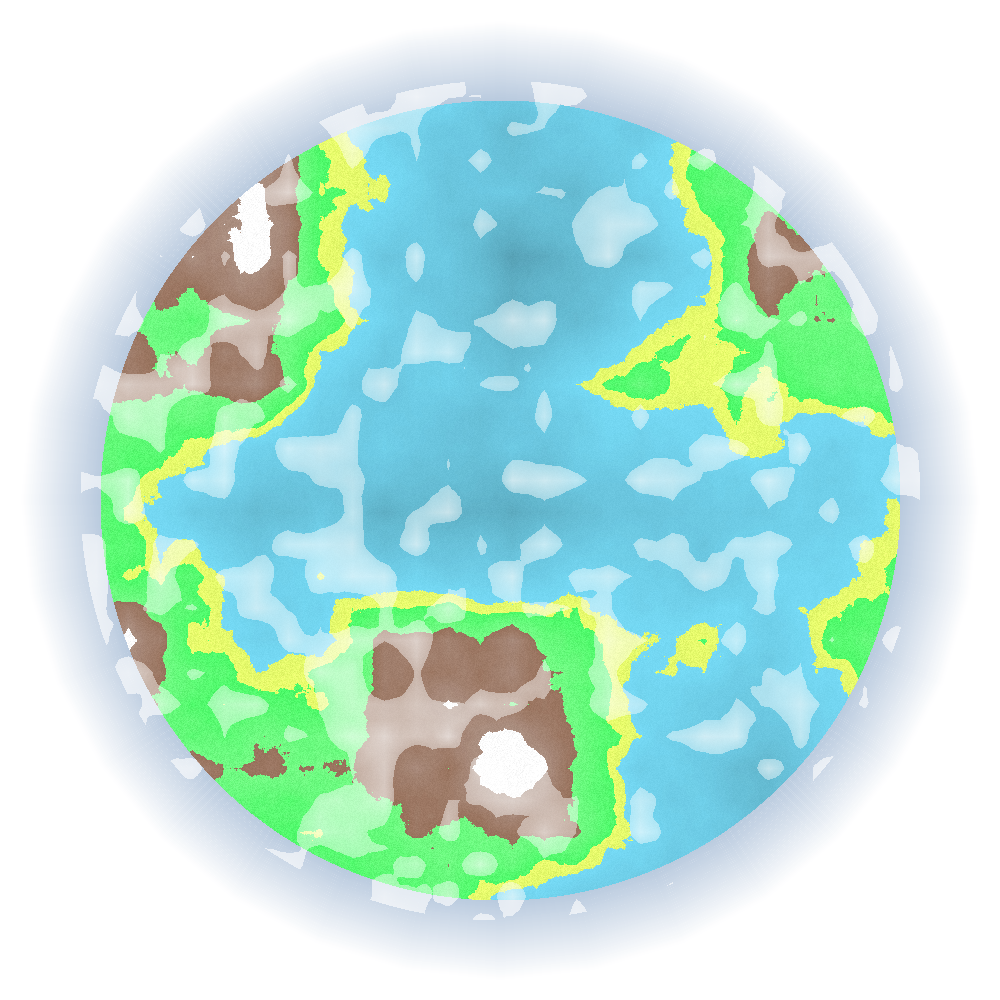
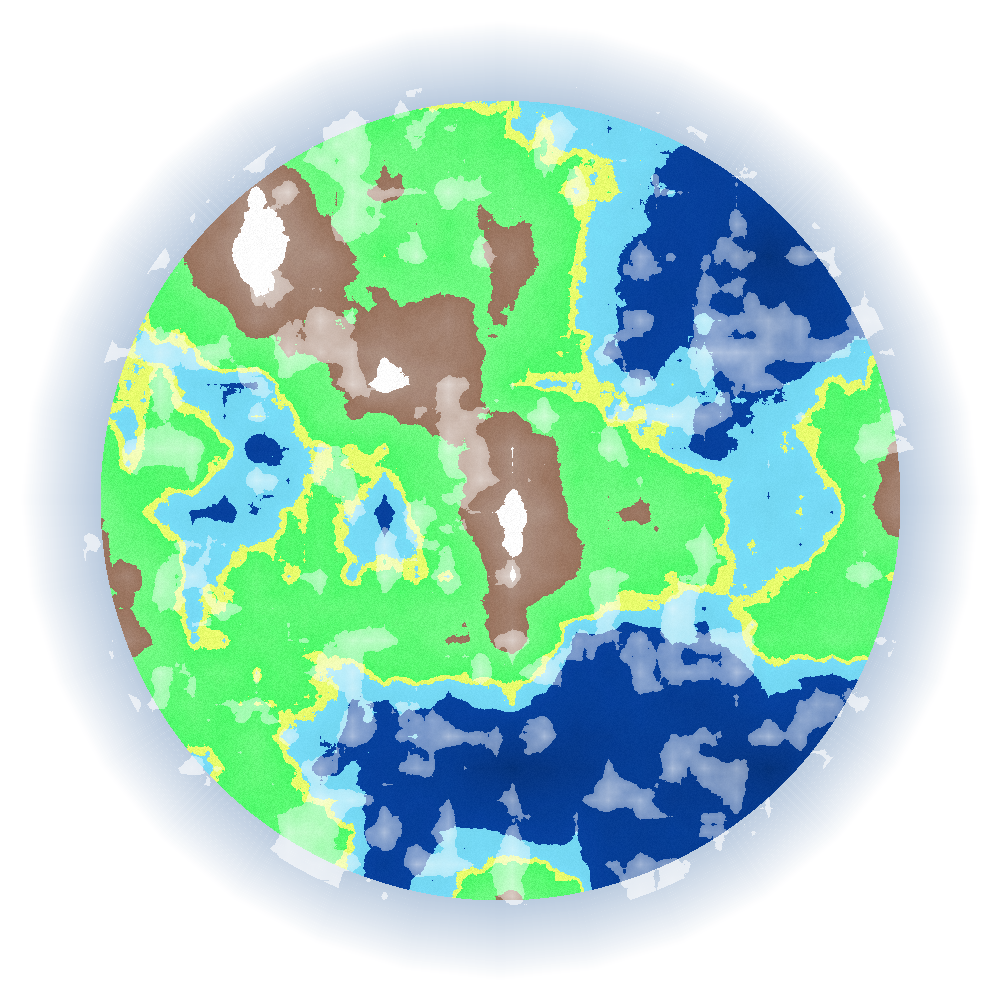
Deep Oceans

diff --git a/Planet.js b/Planet.js
@@ -123,7 +123,7 @@ function generatePlanet(imageSize, planetOptions, colors, hasClouds = false, has
         }
     }
 
-    if(cloudGeneratorOptions) {
+    if(cloudGeneratorOptions == null) {
         cloudGeneratorOptions = {
             octaveCount: 6,
             amplitude: 8,
@@ -188,9 +188,12 @@ function generatePlanet(imageSize, planetOptions, colors, hasClouds = false, has
 
 
             //GROUND AND SEE LEVEL
-            if(value < planetOptions.beach_level && value > planetOptions.sea_level) {
+            if(value < planetOptions.beach_level && value > planetOptions.shore_level) {
                 color = colors.beach_color;
                 amp = 6;
+            } else if(value <= planetOptions.shore_level && value > planetOptions.sea_level) {
+                color = colors.shore_color;
+                amp = 2;
             } else if(value <= planetOptions.sea_level) {
                 color = colors.ocean_color;
                 amp = 2;

diff --git a/test.js b/test.js
@@ -5,7 +5,8 @@ const Planet = require("./Planet.js");
 let colors = {
     land_color: "#4cfa69",
     beach_color: "#e9fe6d",
-    ocean_color: "#78dffb",
+    shore_color: "#78dffb",
+    ocean_color: "#0744a6",
     mountain_color: "#854d1d",
     mountain_top_color: "#ffffff",
     cloud_color: "#ffffff",
@@ -17,7 +18,8 @@ let colors = {
 let planet_options = {
     planet_radius: 400,
     atmosphere_radius: 600,
-    sea_level: 0.45,
+    sea_level: 0.42,
+    shore_level: 0.48,
     beach_level: 0.5,
     mountain_level: 0.62,
     mountain_top_level: 0.75,
@@ -32,9 +34,9 @@ let generator_options = {
 }
 
 let cloud_generator = {
-    octaveCount: 9,
-    amplitude: 5,
-    persistence: 0.5
+    octaveCount: 6,
+    amplitude: 6,
+    persistence: 0.4
 }
 
 let size = 1000;

diff --git a/README.md b/README.md
@@ -1,2 +1,4 @@
 # planet.js
 Procedural generated 2D planets in NodeJS.
+
+![alt](https://raw.githubusercontent.com/SteffTek/planet.js/main/Overworld.png)
